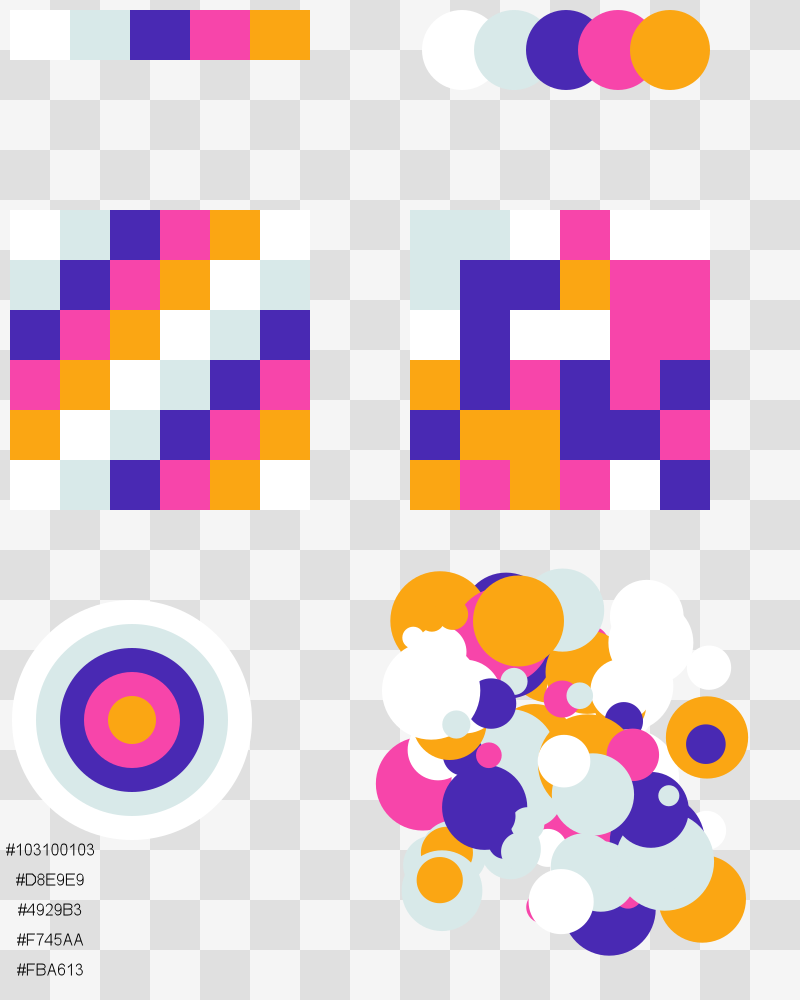
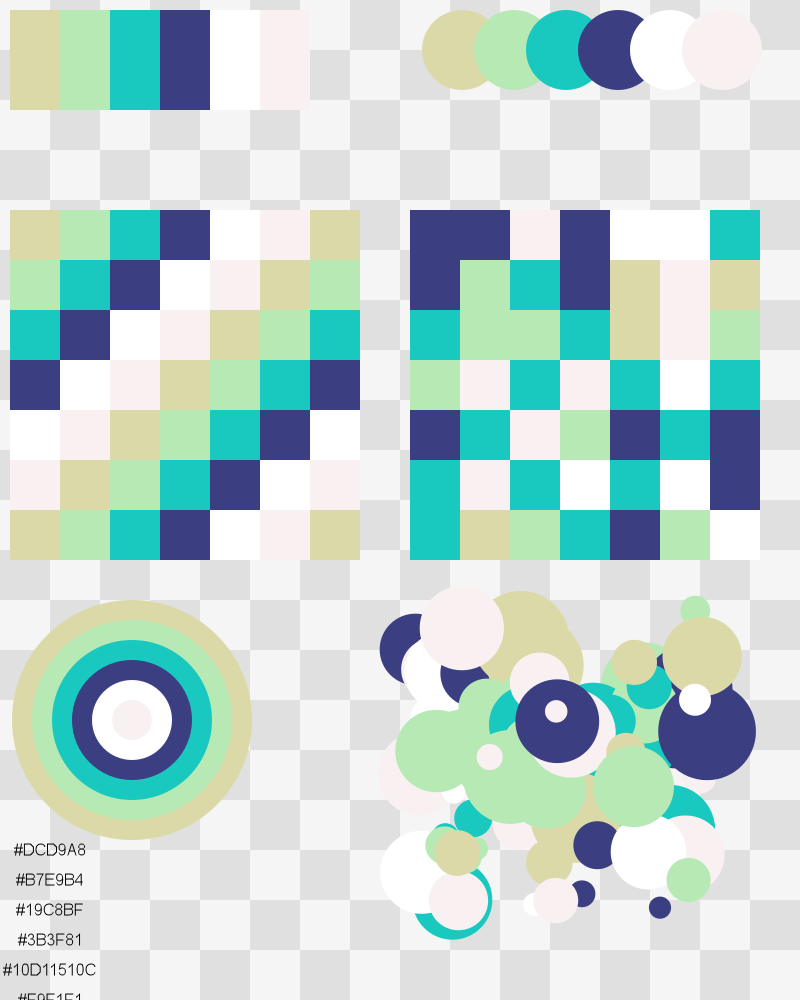
increase strip height

diff --git a/src/modules/horizontalStrip.js b/src/modules/horizontalStrip.js
@@ -1,6 +1,6 @@
 const drawHorizontalStrip = (colors, ctx, x, y) => {
   const colorWidth = 300 / colors.length; // Assuming a fixed width for the strip
-  const height = 50; // Fixed height for the strip
+  const height = 100; // Fixed height for the strip
 
   for (let index = 0; index < colors.length; index++) {
     ctx.fillStyle = colors[index];
